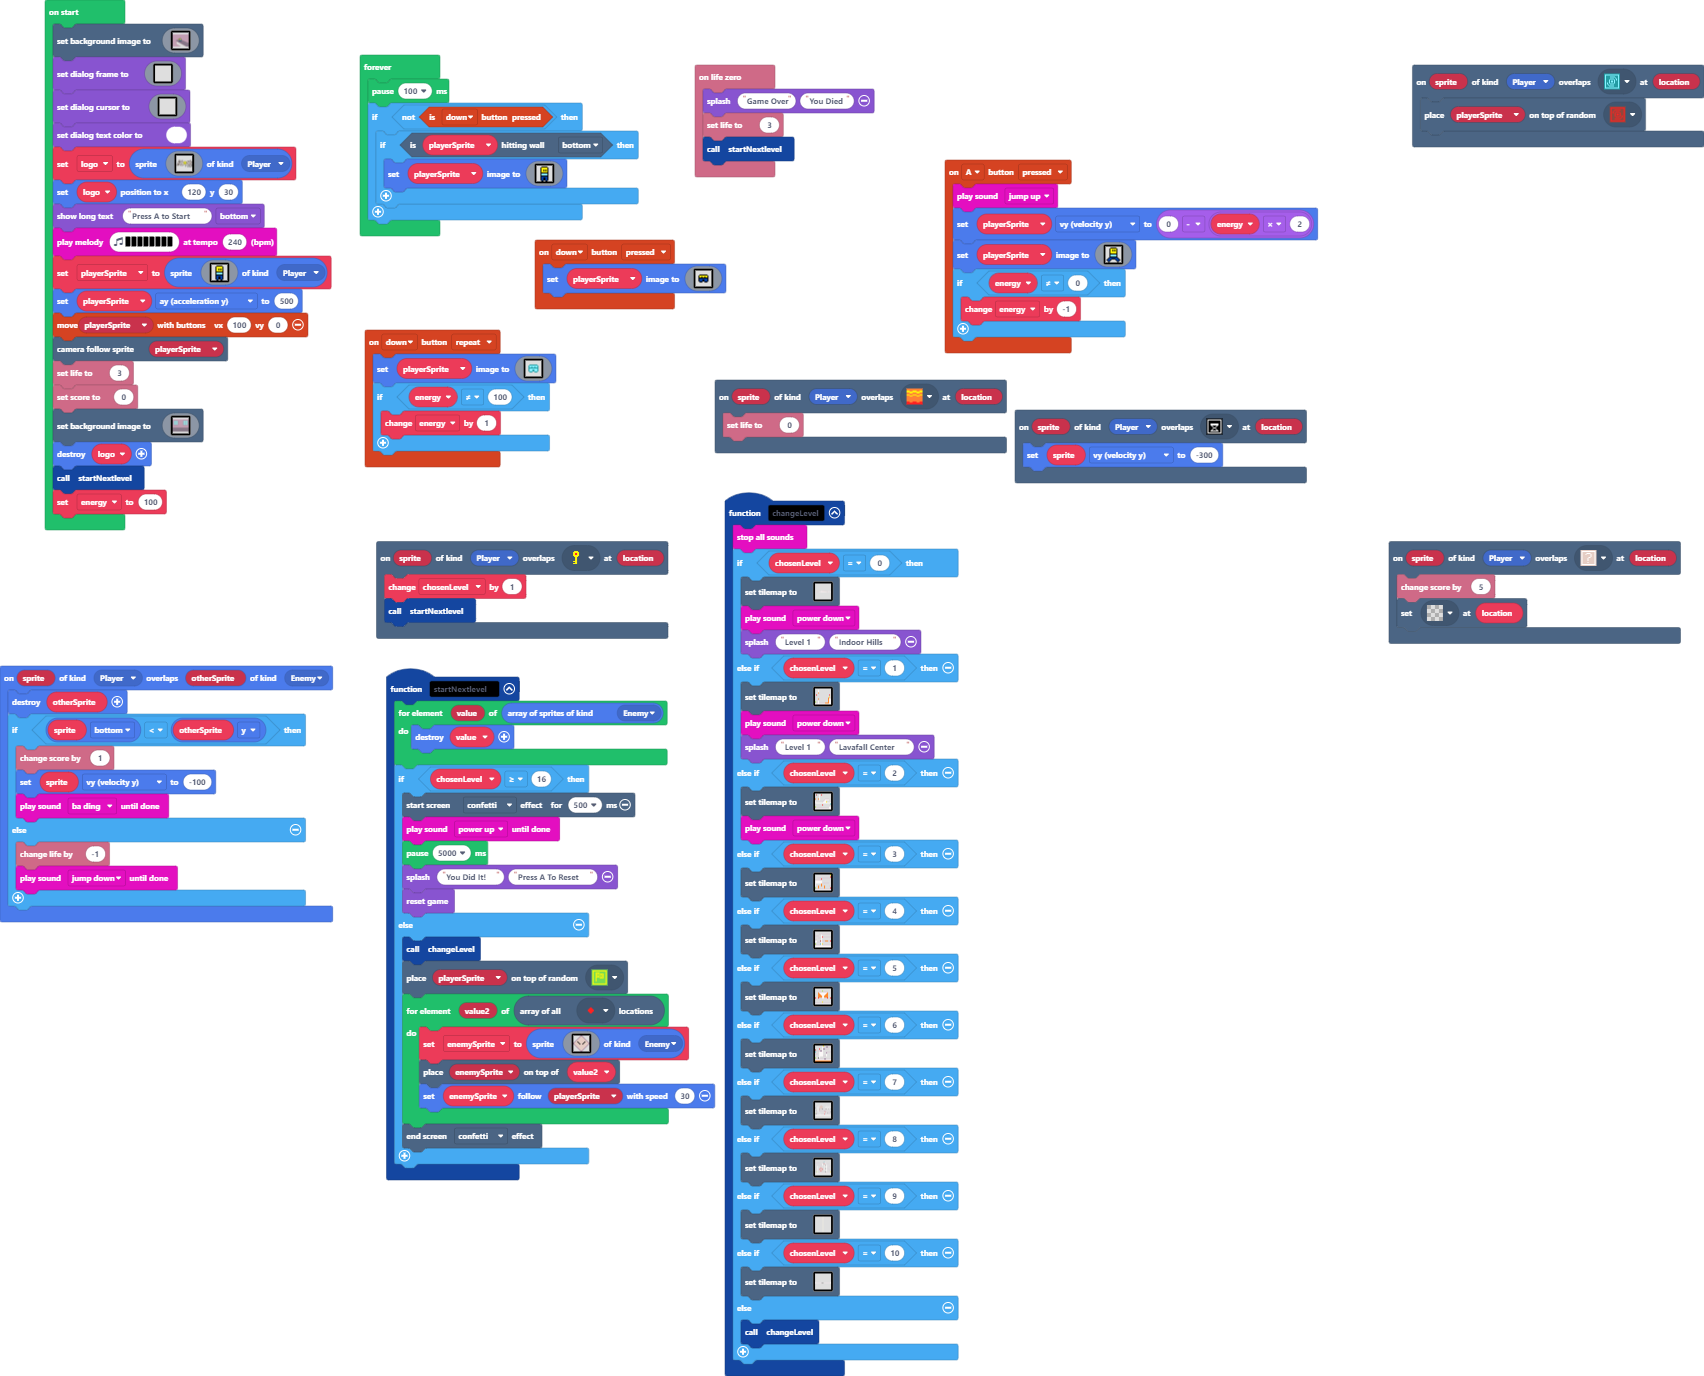
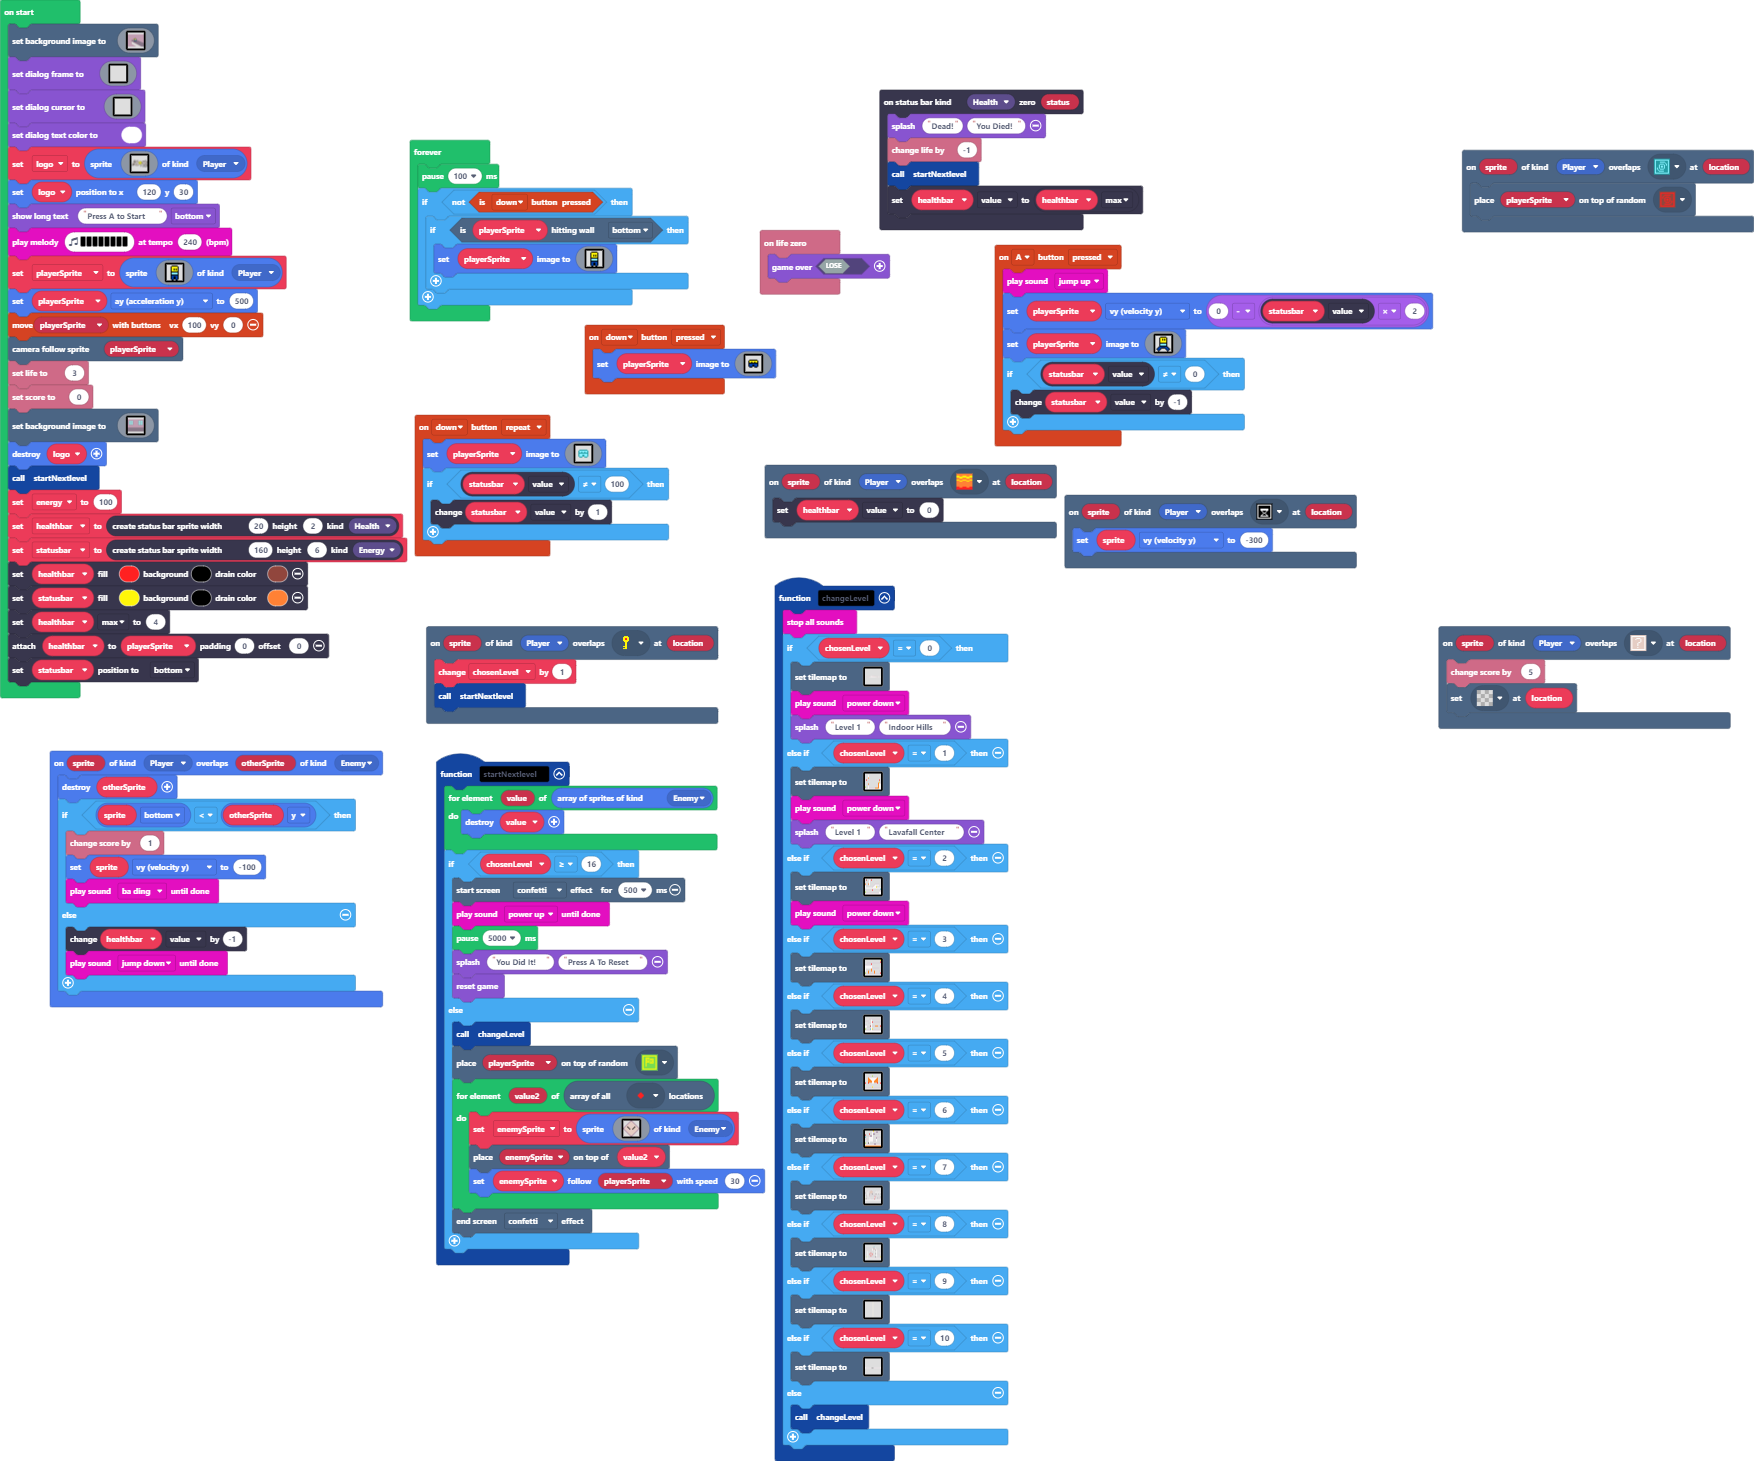
Update pxt.json, main.blocks, main.ts

diff --git a/main.ts b/main.ts
@@ -10,10 +10,10 @@ scene.onOverlapTile(SpriteKind.Player, assets.tile`Finish`, function (sprite, lo
 })
 controller.A.onEvent(ControllerButtonEvent.Pressed, function () {
     music.jumpUp.play()
-    playerSprite.vy = 0 - energy * 2
+    playerSprite.vy = 0 - statusbar.value * 2
     playerSprite.setImage(assets.image`Player Jump`)
-    if (energy != 0) {
-        energy += -1
+    if (statusbar.value != 0) {
+        statusbar.value += -1
     }
 })
 function startNextlevel () {
@@ -77,6 +77,12 @@ scene.onOverlapTile(SpriteKind.Player, assets.tile`Coin Block`, function (sprite
 scene.onOverlapTile(SpriteKind.Player, assets.tile`Trampoline`, function (sprite, location) {
     sprite.vy = -300
 })
+statusbars.onZero(StatusBarKind.Health, function (status) {
+    game.splash("Dead!", "You Died!")
+    info.changeLifeBy(-1)
+    startNextlevel()
+    healthbar.value = healthbar.max
+})
 controller.down.onEvent(ControllerButtonEvent.Repeated, function () {
     playerSprite.setImage(img`
         . . . . 6 6 6 6 6 6 6 6 . . . . 
@@ -88,8 +94,8 @@ controller.down.onEvent(ControllerButtonEvent.Repeated, function () {
         . . . 6 9 9 9 6 6 9 9 9 6 . . . 
         . . . . 6 6 6 . . 6 6 6 . . . . 
         `)
-    if (energy != 100) {
-        energy += 1
+    if (statusbar.value != 100) {
+        statusbar.value += 1
     }
 })
 controller.down.onEvent(ControllerButtonEvent.Pressed, function () {
@@ -105,12 +111,10 @@ controller.down.onEvent(ControllerButtonEvent.Pressed, function () {
         `)
 })
 info.onLifeZero(function () {
-    game.splash("Game Over", "You Died")
-    info.setLife(3)
-    startNextlevel()
+    game.over(false)
 })
 scene.onOverlapTile(SpriteKind.Player, assets.tile`Lava Block`, function (sprite, location) {
-    info.setLife(0)
+    healthbar.value = 0
 })
 sprites.onOverlap(SpriteKind.Player, SpriteKind.Enemy, function (sprite, otherSprite) {
     otherSprite.destroy()
@@ -119,13 +123,14 @@ sprites.onOverlap(SpriteKind.Player, SpriteKind.Enemy, function (sprite, otherSp
         sprite.vy = -100
         music.baDing.playUntilDone()
     } else {
-        info.changeLifeBy(-1)
+        healthbar.value += -1
         music.jumpDown.playUntilDone()
     }
 })
 let enemySprite: Sprite = null
 let chosenLevel = 0
-let energy = 0
+let statusbar: StatusBarSprite = null
+let healthbar: StatusBarSprite = null
 let playerSprite: Sprite = null
 scene.setBackgroundImage(img`
     bbbbbbbbbbbbbbbbbbbbbbbbbbbbbbbbbbbbbbbbbbbbbbbbbbbbbbbbbbbbbbbbbbbbbbbbbbbbbbbbbbbbbbbbbbbbbbbbbbbbbbbbbbbbbbbbbbbbbbbbbbbbbbbbbbbbbbbbbbbbbbbbbbbbbbbbbbbbbbbb
@@ -452,7 +457,14 @@ scene.setBackgroundImage(img`
     `)
 logo.destroy()
 startNextlevel()
-energy = 100
+let energy = 100
+healthbar = statusbars.create(20, 2, StatusBarKind.Health)
+statusbar = statusbars.create(160, 6, StatusBarKind.Energy)
+healthbar.setColor(2, 15, 14)
+statusbar.setColor(5, 15, 4)
+healthbar.max = 4
+healthbar.attachToSprite(playerSprite, 0, 0)
+statusbar.positionDirection(CollisionDirection.Bottom)
 forever(function () {
     pause(100)
     if (!(controller.down.isPressed())) {
